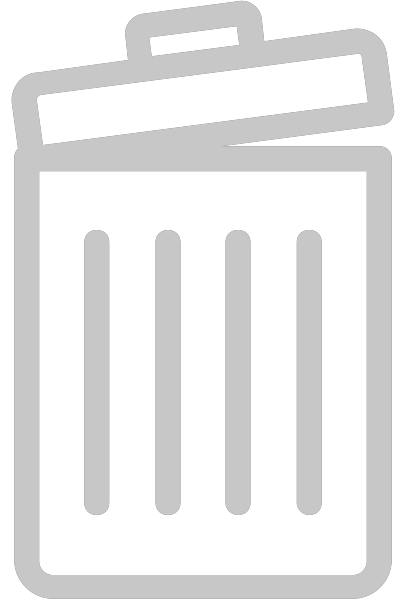
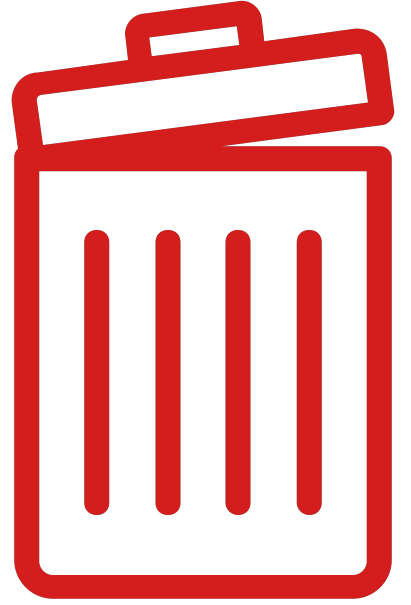
Ajout des pictogramme permettant la modification ou la suppression d'une ligne CSS mis à jour / JS mis à jour Fonctions en JS à faire

diff --git a/js/entreprise2.js b/js/entreprise2.js
@@ -114,12 +114,12 @@ function ent_clearHTMLBoard() {
     // remise à zéro du compteur de lignes des tableaux
     ent_numLines = 0;
 }
-            
+
 
 // fonction qui reconstruit le tableau HTML à partir des tableaux JS
 function ent_buildHTMLBoard() {
     // variables locales
-    var i, j, ent_iBuild, ent_lineBuild, ent_celBuild, ent_emptyLine, ent_emptyCel;
+    var i, j, ent_iBuild, ent_lineBuild, ent_celBuild, ent_emptyLine, ent_emptyCel, ent_celPicto;
 
     // tableau
     var ent_arrayToBuild = new Array();
@@ -133,7 +133,7 @@ function ent_buildHTMLBoard() {
             ent_tbody.appendChild(ent_emptyLine);
 
             // création et ajout des cellules vides
-            for(j=0; j<8; j++) {
+            for(j=0; j<9; j++) {
                 ent_emptyCel = document.createElement("td");
                 ent_emptyLine.appendChild(ent_emptyCel);
             }
@@ -162,6 +162,12 @@ function ent_buildHTMLBoard() {
                 // remplissage des cellules avec le JS
                 ent_celBuild.textContent = ent_arrayToBuild[i];
             }
+            // création de la cellule pour les pictos
+            ent_celPicto = document.createElement("td");
+            // insertion des pictos pour supprimer et modifier une ligne
+            ent_celPicto.innerHTML = "<img src='../Test Local/img/ent_modify.png' alt='Modify' onclick='ent_modifyLine()' class='ent_pictoModify' />";
+            ent_celPicto.innerHTML += "<img src='../Test Local/img/ent_trash.png' alt='Delete' onclick='ent_delLine()' class='ent_pictoDelete' />";
+            ent_lineBuild.appendChild(ent_celPicto);
             // incrémentation du compteur des IDs et lignes
             ent_numLines++;
         }
@@ -202,11 +208,11 @@ function ent_buildHTMLBoard() {
 
 // fonction qui permet de modifier une ligne
 function ent_modifyLine() {
-    
+    console.log("Modify");
 }
 
 
 // fonction qui permet de supprimer une ligne
 function ent_delLine() {
-    
+    console.log("delLine");
 }

diff --git a/entLocal2.html b/entLocal2.html
@@ -21,6 +21,7 @@
                         <th id="ent_repr">Représentant</th>
                         <th id="ent_activity">Activité</th>
                         <th id="ent_activityDetail">Détails de l'activité</th>
+                        <th id="ent_pictures"></th>
                     </tr>
                 </thead>
                 <tbody id="ent_tbody">
@@ -33,8 +34,10 @@
                         <td></td>
                         <td></td>
                         <td></td>
+                        <td id="ent_picto"></td>
                     </tr>
                     <tr id=ent_replaceLine1>
+                        <td></td>
                         <td></td>
                         <td></td>
                         <td></td>
@@ -53,8 +56,10 @@
                         <td></td>
                         <td></td>
                         <td></td>
+                        <td></td>
                     </tr>
                     <tr id=ent_replaceLine3>
+                        <td></td>
                         <td></td>
                         <td></td>
                         <td></td>
@@ -73,8 +78,10 @@
                         <td></td>
                         <td></td>
                         <td></td>
+                        <td></td>
                     </tr>
                     <tr id=ent_replaceLine5>
+                        <td></td>
                         <td></td>
                         <td></td>
                         <td></td>

diff --git a/css/entreprise2.css b/css/entreprise2.css
@@ -36,6 +36,22 @@ th, td {
     height: 25px;
 }
 
+.ent_pictoDelete {
+    width: 16px;
+    height: 18px;
+    padding-top: 4px;
+    margin-left: 10px;
+}
+
+.ent_pictoModify {
+    width: 20px;
+    height: auto;
+}
+
+.ent_pictoDelete:hover, .ent_pictoModify:hover {
+    cursor: pointer;
+}
+
 
                         /*La selection, recherche*/
 #ent_search {
